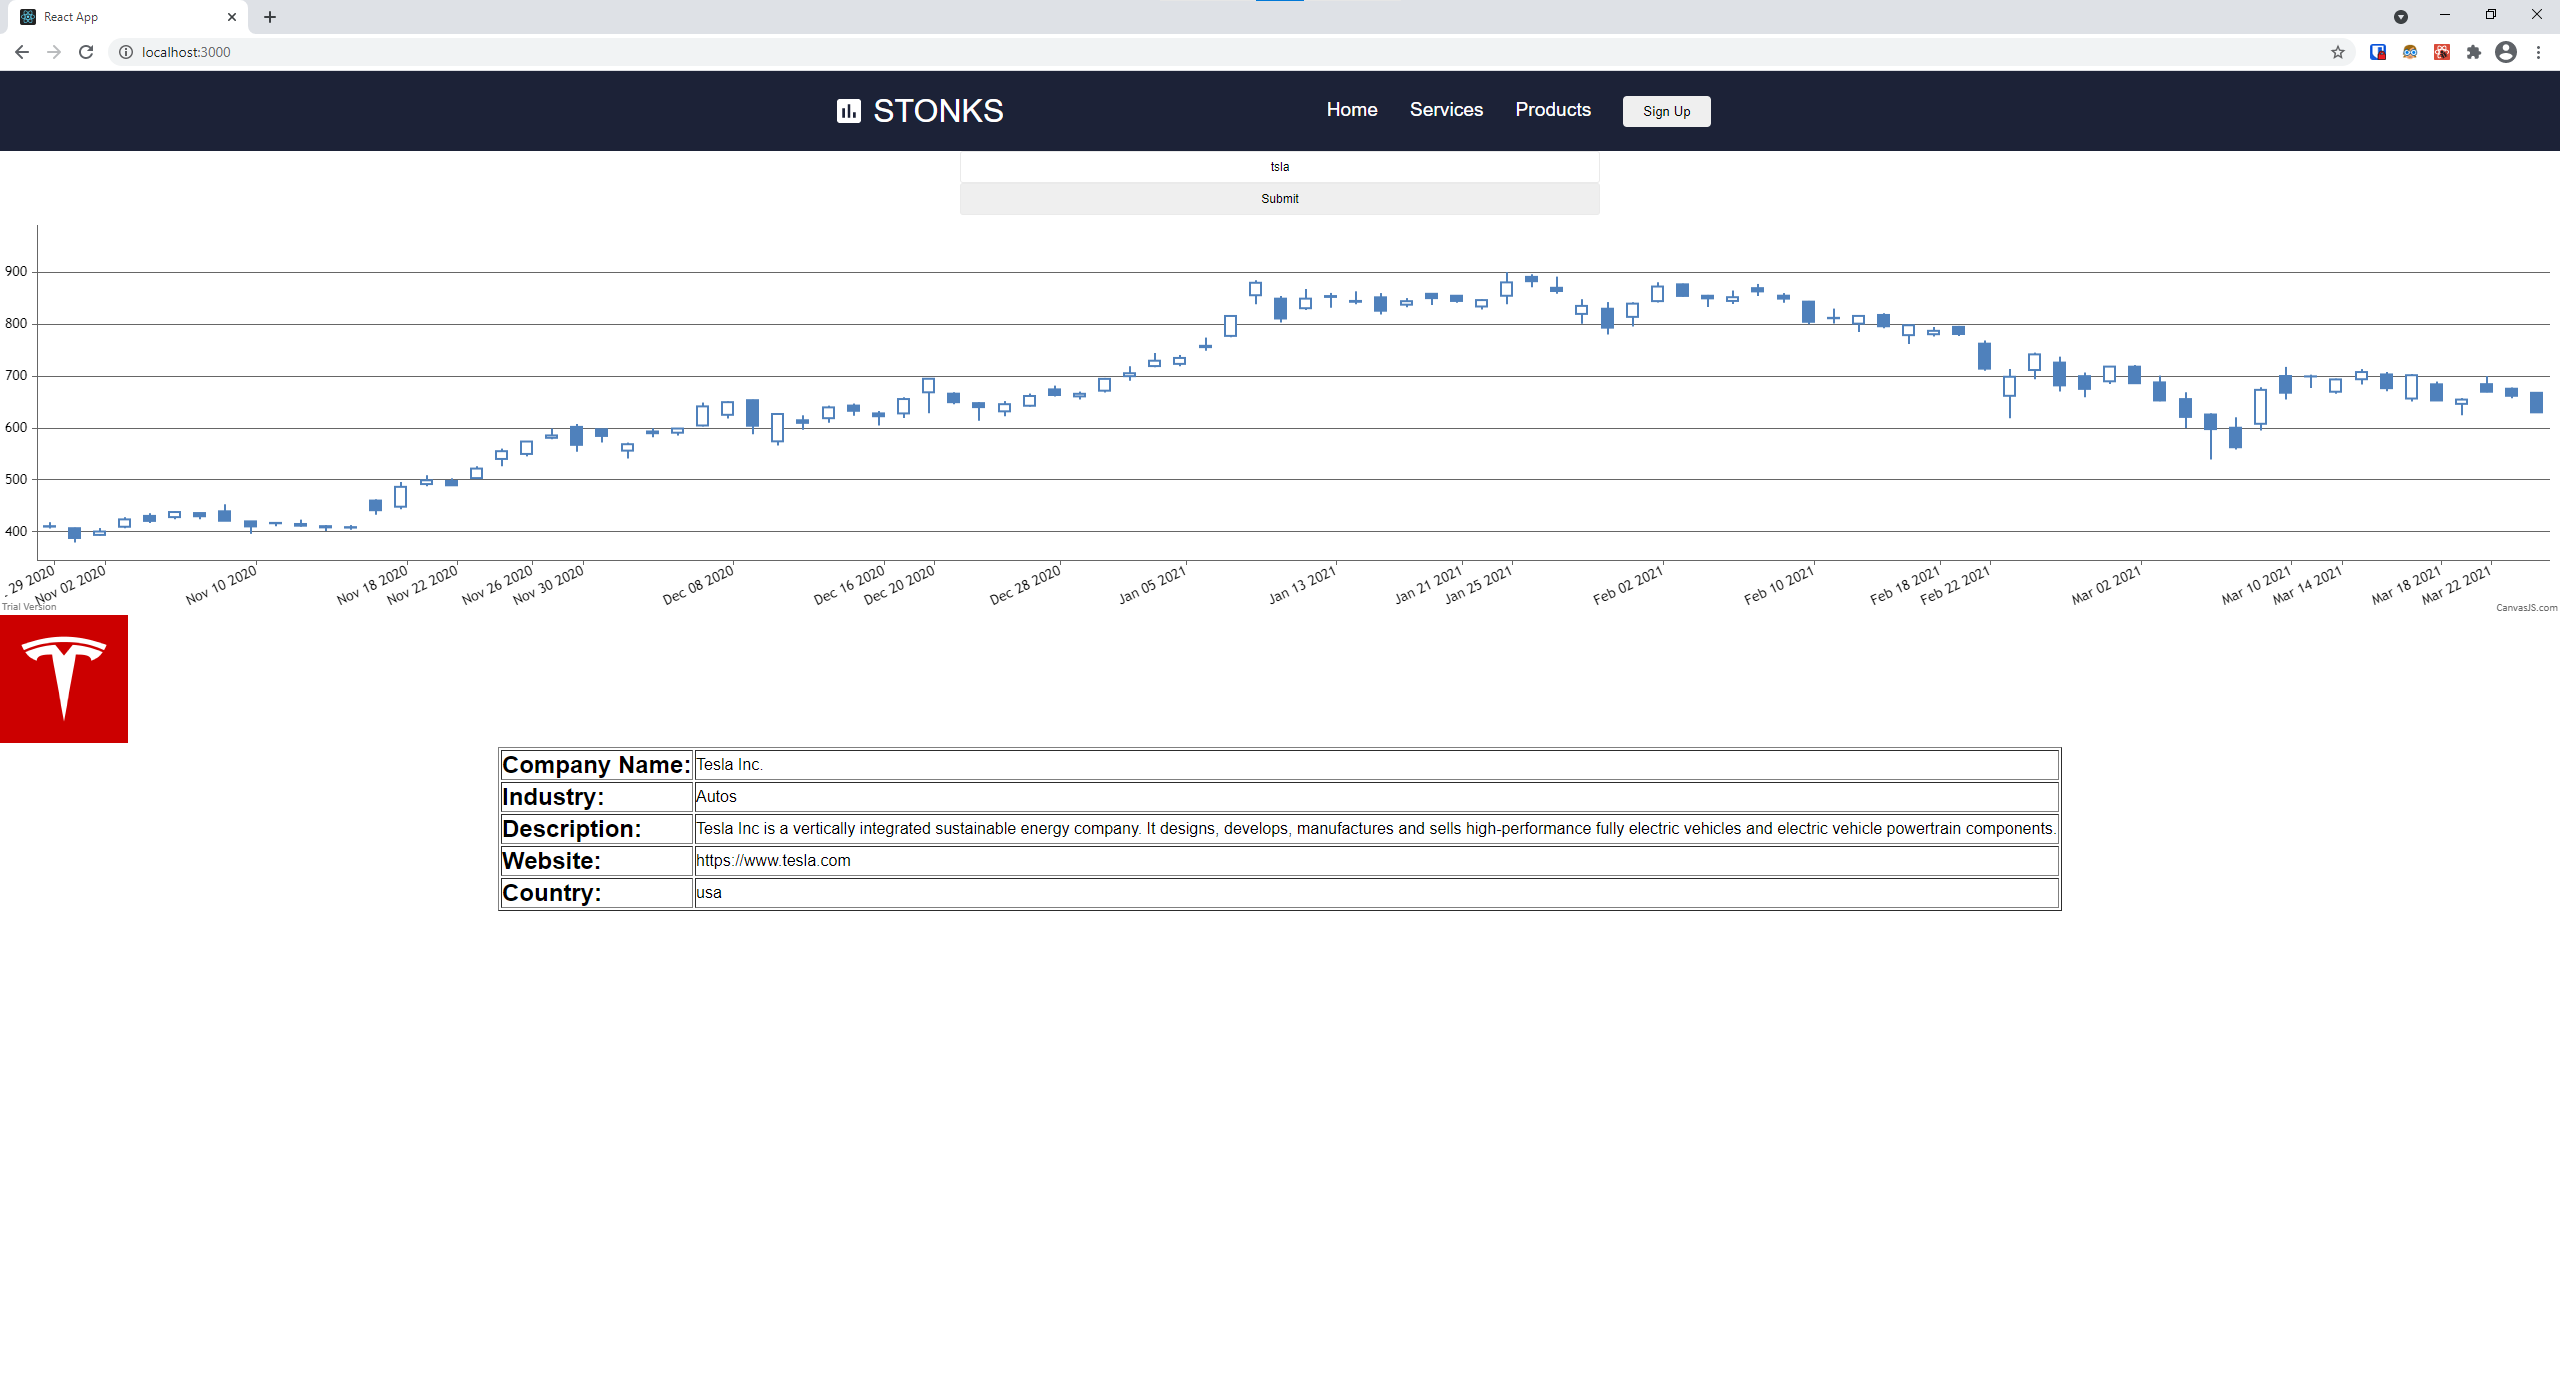
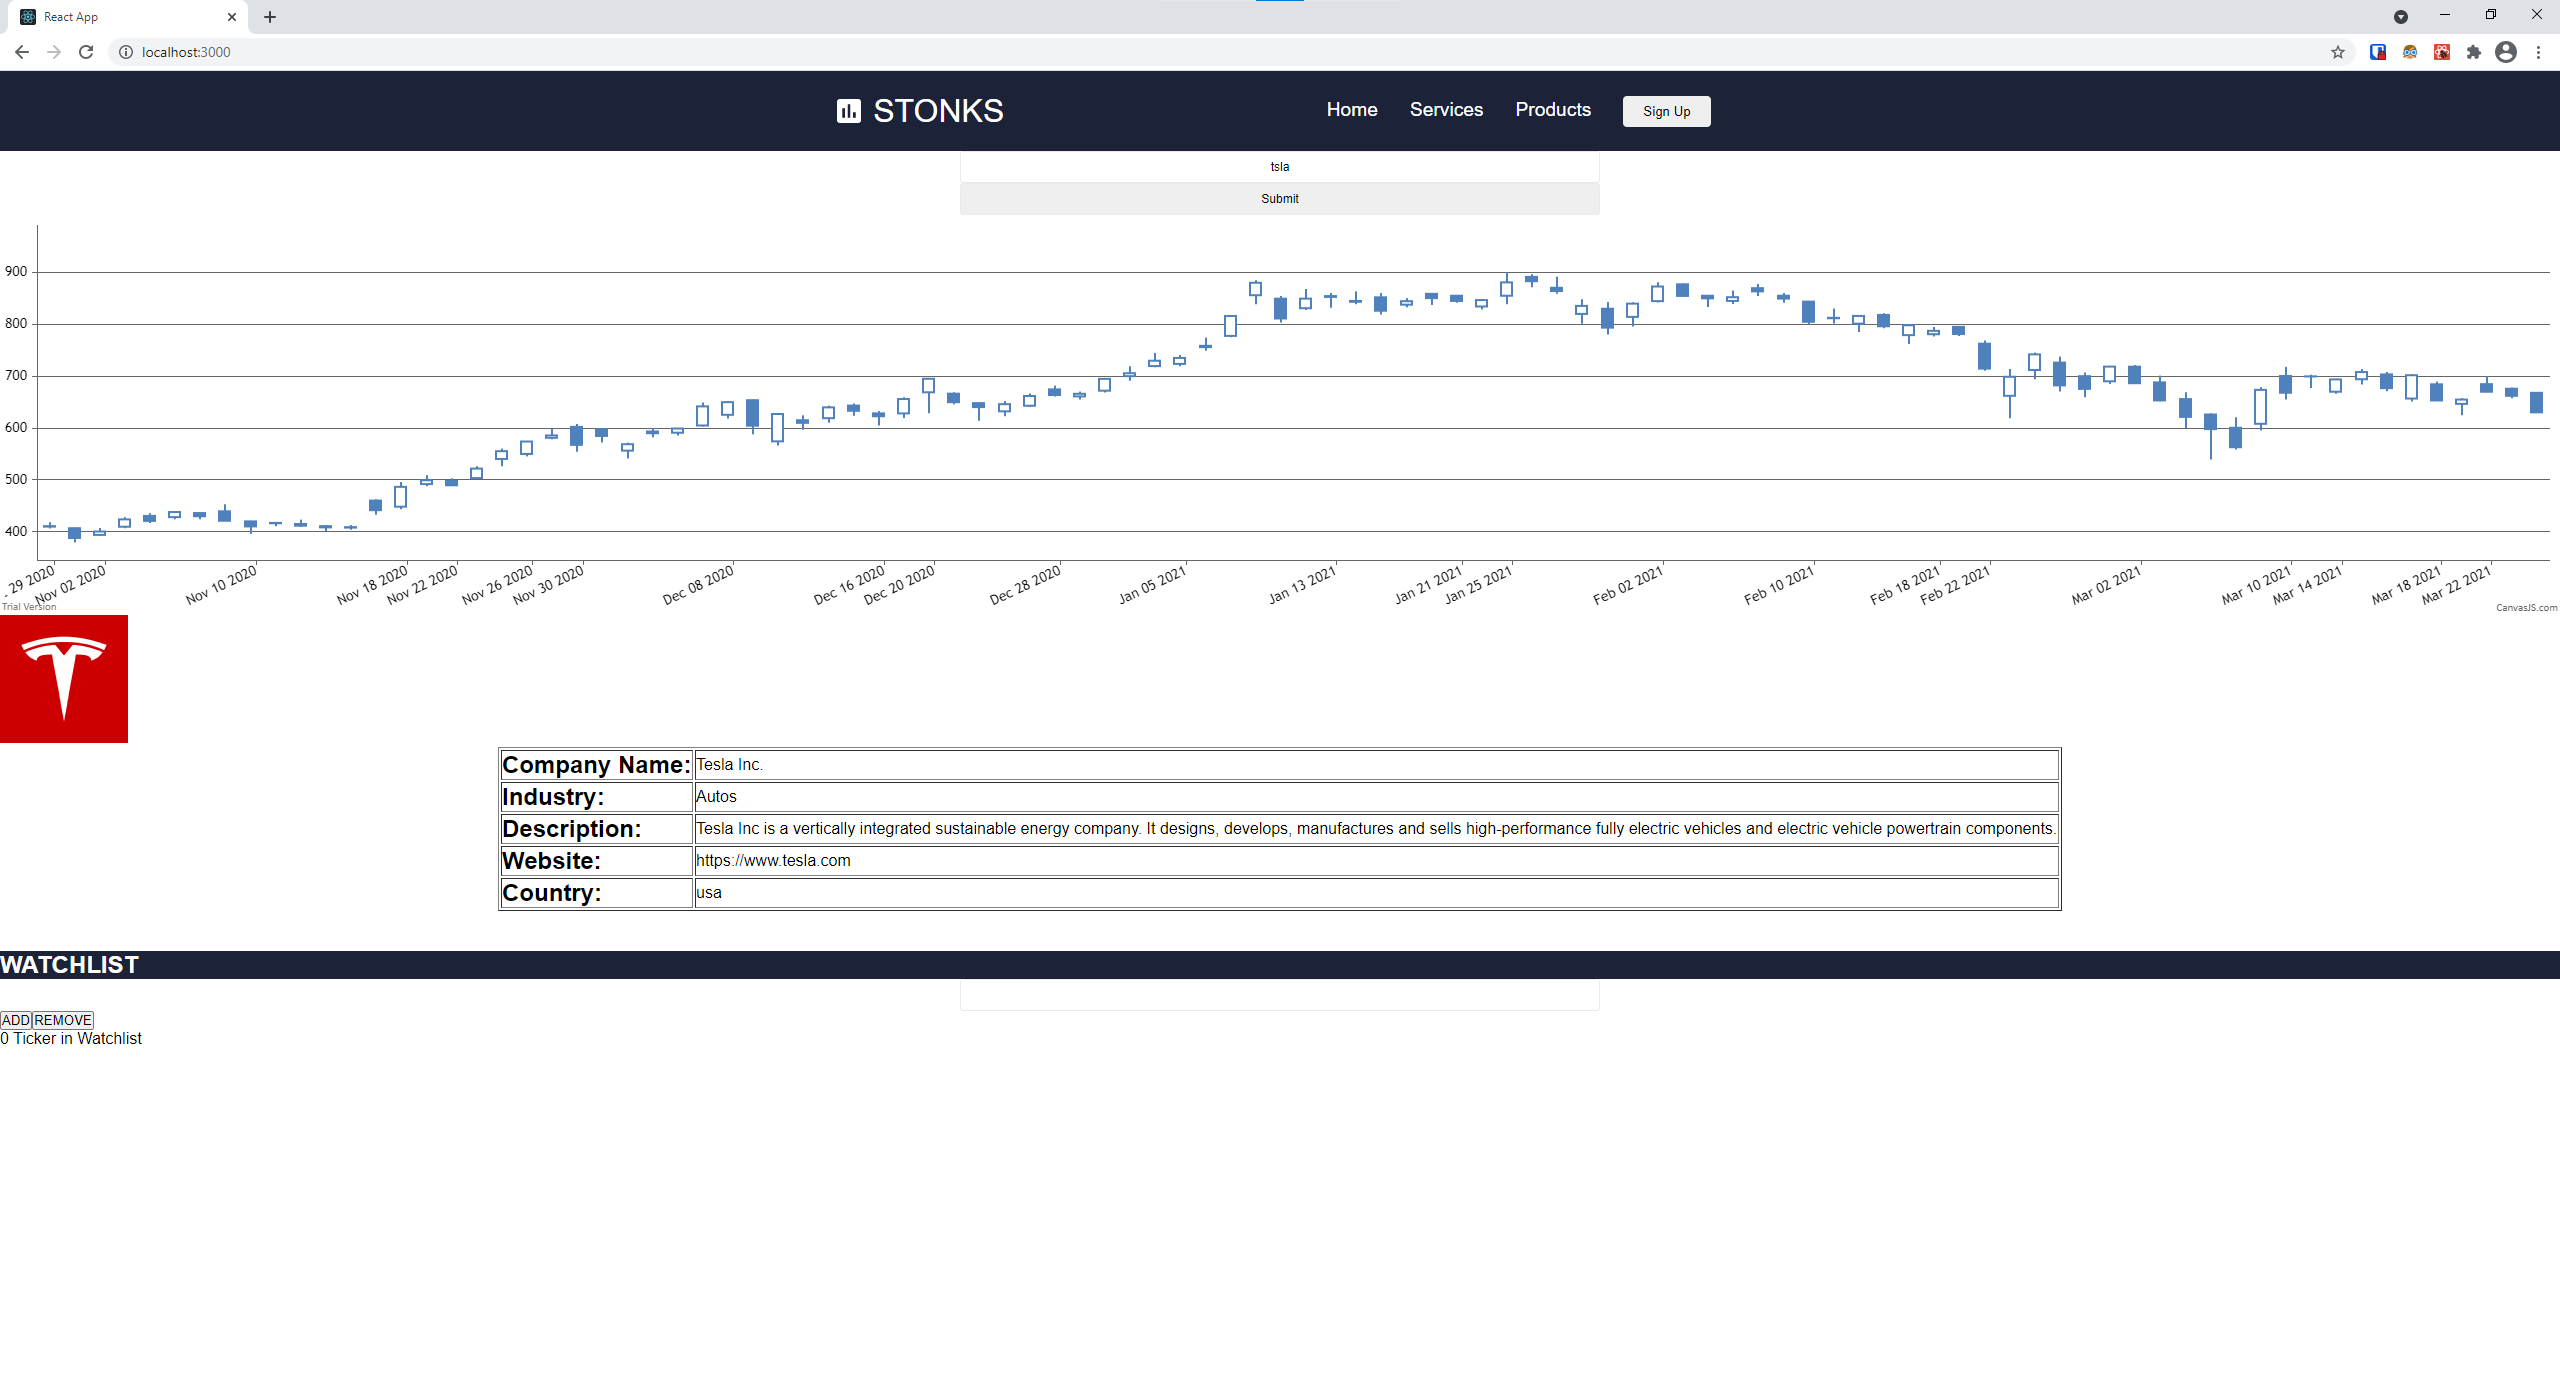
updated screenshot with watchlist

Changed region(s): [[0.0, 0.6757, 1.0, 0.7679]]

diff --git a/src/App.js b/src/App.js
@@ -9,7 +9,7 @@ import Data from "./components/Data/Data";
 // import StockDisplay from "./components/StockDisplay/StockDisplay";
 import Chart from "./Chart";
 // import PolygonApi from './components/PolygonApi';
-import Watchlist from './components/Watchlist/Watchlist'
+import Watchlist from "./components/Watchlist/Watchlist";
 const App = () => {
   const [ticker, setTicker] = useState("");
 
